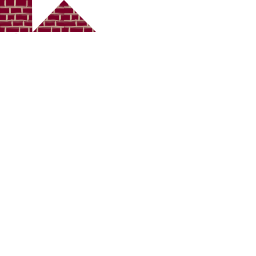
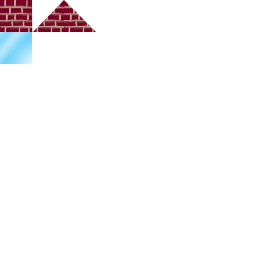
platformer: add ice

Changed region(s): [[0.0, 0.125, 0.125, 0.25]]

diff --git a/res/platformer/dev.tsx b/res/platformer/dev.tsx
@@ -4,17 +4,26 @@
  <tile id="0">
   <properties>
    <property name="anum" type="int" value="23"/>
+   <property name="material" value="brick"/>
    <property name="shape" value="block"/>
   </properties>
  </tile>
  <tile id="1">
   <properties>
+   <property name="material" value="brick"/>
    <property name="shape" value="slope-left"/>
   </properties>
  </tile>
  <tile id="2">
   <properties>
+   <property name="material" value="brick"/>
    <property name="shape" value="slope-right"/>
+  </properties>
+ </tile>
+ <tile id="8">
+  <properties>
+   <property name="material" value="ice"/>
+   <property name="shape" value="block"/>
   </properties>
  </tile>
  <tile id="63">
